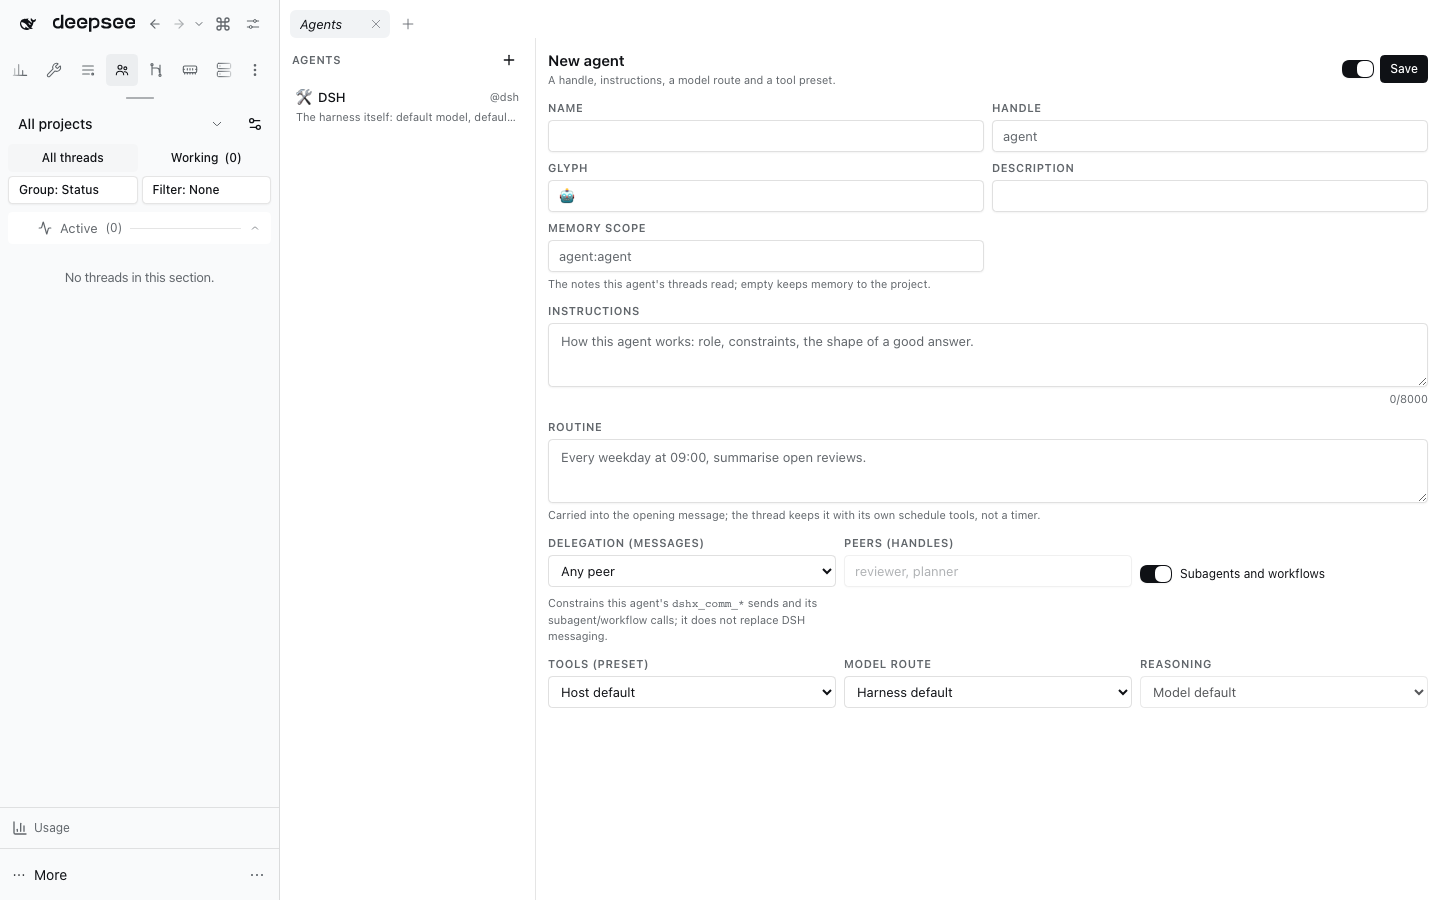
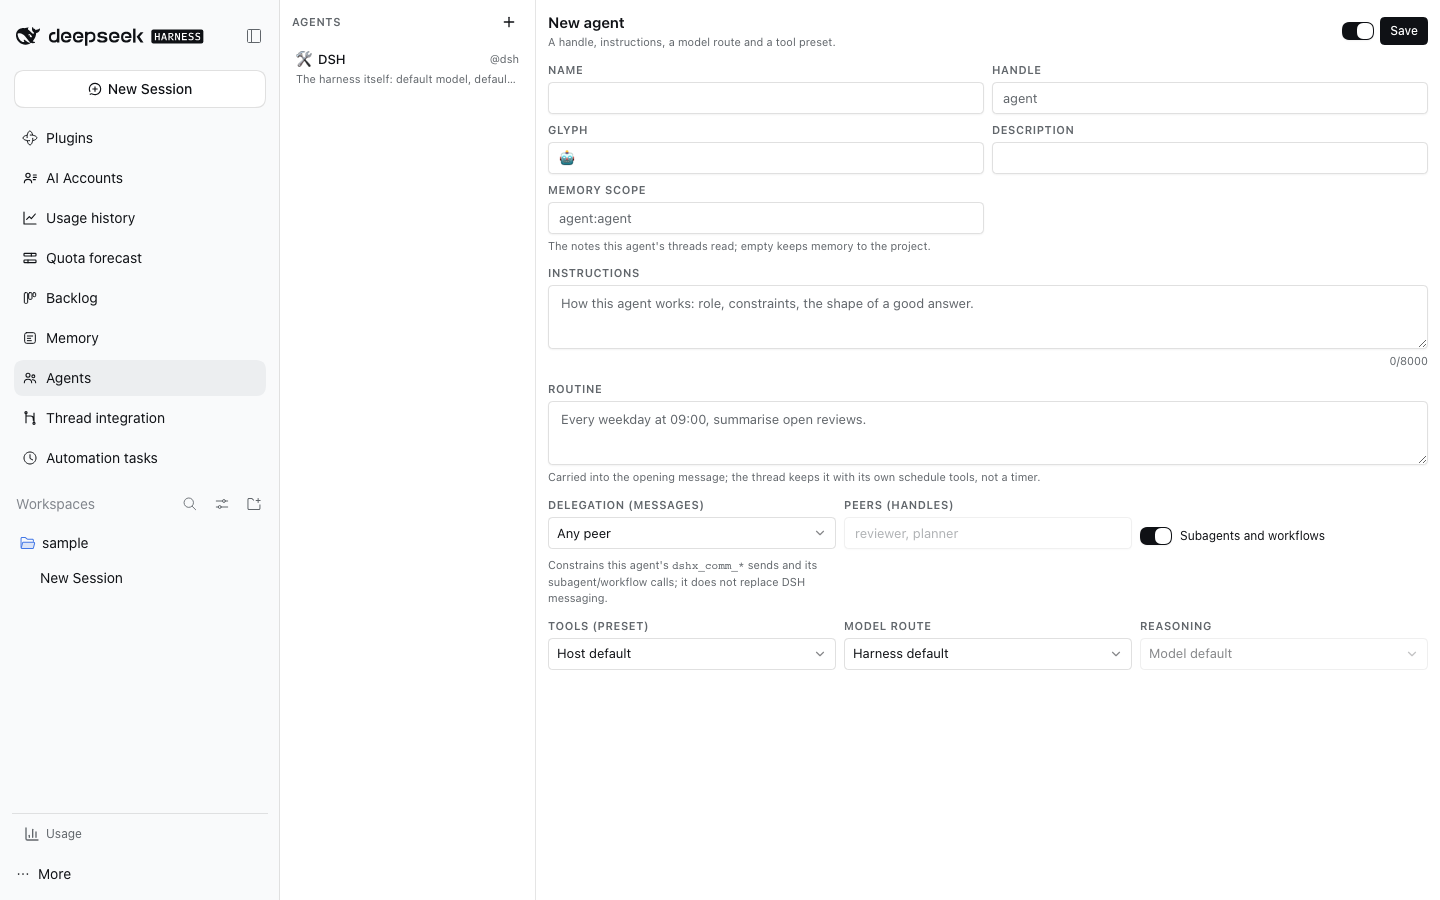
feat(agents): pick agent settings and the start workspace with the combobox
The agent form chose its delegation, tool preset, model route, reasoning and
start workspace through native selects; the workspace target had no accessible
name and a long route list could not be searched. Those fields now use the
shared combobox with the same values, patches and disabled states, and the
target carries a Thread workspace label.

The agents journey picks the listed-peers delegation through the combobox and
the registry screenshot is recaptured from a scratch DSH.

diff --git a/plugins/@dshfiles/agents/src/agents-panel.tsx b/plugins/@dshfiles/agents/src/agents-panel.tsx
@@ -1,6 +1,7 @@
 import type { WorkspaceId } from '@deepseek-ai/dsh-workspace/types'
 import { useApi } from '@dshfiles/dshx/client'
 import { Button } from '@dshfiles/plugin-ui/components/ui/button'
+import { Combobox, type ComboboxOption } from '@dshfiles/plugin-ui/components/ui/combobox'
 import { Input } from '@dshfiles/plugin-ui/components/ui/input'
 import { Switch } from '@dshfiles/plugin-ui/components/ui/switch'
 import { Textarea } from '@dshfiles/plugin-ui/components/ui/textarea'
@@ -41,8 +42,6 @@ export interface AgentsPanelProps {
 
 type Outcome = { readonly ok: true } | { readonly ok: false; readonly reason: string }
 
-const fieldClass =
-  'dshx:h-8 dshx:w-full dshx:rounded-md dshx:border dshx:border-input dshx:bg-background dshx:px-2 dshx:text-[13px] dshx:text-foreground dshx:outline-none dshx:focus-visible:ring-2 dshx:focus-visible:ring-ring/50'
 const labelClass = 'dshx:text-[11px] dshx:font-semibold dshx:uppercase dshx:tracking-wider dshx:text-muted-foreground'
 
 const draftOf = (agent: Agent | null): AgentDraft => ({
@@ -155,6 +154,32 @@ export const AgentsPanel = (props: AgentsPanelProps): JSX.Element => {
   const patch = (next: Partial<AgentDraft>): void => setDraft(currentDraft => ({ ...currentDraft, ...next }))
   const routeKey = draft.route === null ? '' : `${draft.route.provider}/${draft.route.model}`
   const routeOption = catalog.data?.options.find(option => option.key === routeKey)
+  const delegationOptions: readonly ComboboxOption[] = [
+    { value: 'any', label: 'Any peer' },
+    { value: 'listed', label: 'Listed peers only' },
+    { value: 'none', label: 'No messaging' },
+  ]
+  const presetOptions: readonly ComboboxOption[] = [
+    { value: '', label: 'Host default' },
+    ...(presets.data ?? []).map(preset => ({ value: preset.id, label: preset.name ?? preset.id, disabled: preset.broken !== undefined })),
+  ]
+  const routeOptions: readonly ComboboxOption[] = [
+    { value: '', label: 'Harness default' },
+    ...(catalog.data?.options ?? []).map(option => ({
+      value: option.key,
+      label: `${option.providerName} · ${option.modelName}`,
+      keywords: [option.provider, option.model],
+      group: option.providerName,
+    })),
+  ]
+  const effortOptions: readonly ComboboxOption[] = [
+    { value: '', label: 'Model default' },
+    ...(routeOption?.efforts ?? []).map(effort => ({ value: effort, label: effort })),
+  ]
+  const targetOptions: readonly ComboboxOption[] = [
+    { value: 'default', label: 'Host default workspace' },
+    ...projects.map(project => ({ value: `project:${project.id}`, label: project.title })),
+  ]
 
   return (
     <main className="dshx-root dshx:@container dshx:flex dshx:h-full dshx:min-h-0 dshx:bg-background dshx:text-foreground">
@@ -298,23 +323,21 @@ export const AgentsPanel = (props: AgentsPanelProps): JSX.Element => {
         <div className="dshx:grid dshx:grid-cols-3 dshx:gap-2 dshx:@max-pane-narrow:grid-cols-1">
           <label className="dshx:flex dshx:flex-col dshx:gap-1">
             <span className={labelClass}>Delegation (messages)</span>
-            <select
-              className={fieldClass}
-              value={draft.delegation.messaging}
-              onChange={event =>
+            <Combobox
+              label="Delegation (messages)"
+              matchTriggerWidth
+              onValueChange={value =>
                 patch({
                   delegation: {
-                    messaging: event.currentTarget.value === 'none' ? 'none' : event.currentTarget.value === 'listed' ? 'listed' : 'any',
+                    messaging: value === 'none' ? 'none' : value === 'listed' ? 'listed' : 'any',
                     handles: draft.delegation.handles,
                     subagents: draft.delegation.subagents,
                   },
                 })
               }
-            >
-              <option value="any">Any peer</option>
-              <option value="listed">Listed peers only</option>
-              <option value="none">No messaging</option>
-            </select>
+              options={delegationOptions}
+              value={draft.delegation.messaging}
+            />
           </label>
           <label className="dshx:flex dshx:flex-col dshx:gap-1">
             <span className={labelClass}>Peers (handles)</span>
@@ -352,26 +375,23 @@ export const AgentsPanel = (props: AgentsPanelProps): JSX.Element => {
         <div className="dshx:grid dshx:grid-cols-3 dshx:gap-2 dshx:@max-pane-narrow:grid-cols-1">
           <label className="dshx:flex dshx:flex-col dshx:gap-1">
             <span className={labelClass}>Tools (preset)</span>
-            <select
-              className={fieldClass}
+            <Combobox
+              label="Tools (preset)"
+              matchTriggerWidth
+              onValueChange={value => patch({ preset: value === '' ? null : value })}
+              options={presetOptions}
+              searchAbove={0}
+              searchPlaceholder="Search presets…"
               value={draft.preset ?? ''}
-              onChange={event => patch({ preset: event.currentTarget.value === '' ? null : event.currentTarget.value })}
-            >
-              <option value="">Host default</option>
-              {(presets.data ?? []).map(preset => (
-                <option key={preset.id} value={preset.id} disabled={preset.broken !== undefined}>
-                  {preset.name ?? preset.id}
-                </option>
-              ))}
-            </select>
+            />
           </label>
           <label className="dshx:flex dshx:flex-col dshx:gap-1">
             <span className={labelClass}>Model route</span>
-            <select
-              className={fieldClass}
-              value={routeKey}
-              onChange={event => {
-                const option = catalog.data?.options.find(candidate => candidate.key === event.currentTarget.value)
+            <Combobox
+              label="Model route"
+              matchTriggerWidth
+              onValueChange={value => {
+                const option = catalog.data?.options.find(candidate => candidate.key === value)
                 if (option === undefined) {
                   patch({ route: null })
                   return
@@ -380,39 +400,31 @@ export const AgentsPanel = (props: AgentsPanelProps): JSX.Element => {
                 if (option.defaultEffort !== undefined) route.reasoningEffort = option.defaultEffort
                 patch({ route })
               }}
-            >
-              <option value="">Harness default</option>
-              {(catalog.data?.options ?? []).map(option => (
-                <option key={option.key} value={option.key}>
-                  {option.providerName} · {option.modelName}
-                </option>
-              ))}
-            </select>
+              options={routeOptions}
+              searchAbove={0}
+              searchPlaceholder="Search models…"
+              value={routeKey}
+            />
           </label>
           <label className="dshx:flex dshx:flex-col dshx:gap-1">
             <span className={labelClass}>Reasoning</span>
-            <select
-              className={fieldClass}
-              value={draft.route?.reasoningEffort ?? ''}
+            <Combobox
               disabled={routeOption === undefined}
-              onChange={event =>
+              label="Reasoning"
+              matchTriggerWidth
+              onValueChange={value =>
                 patch({
                   route:
                     draft.route === null
                       ? null
-                      : event.currentTarget.value === ''
+                      : value === ''
                         ? { provider: draft.route.provider, model: draft.route.model }
-                        : { provider: draft.route.provider, model: draft.route.model, reasoningEffort: event.currentTarget.value },
+                        : { provider: draft.route.provider, model: draft.route.model, reasoningEffort: value },
                 })
               }
-            >
-              <option value="">Model default</option>
-              {(routeOption?.efforts ?? []).map(effort => (
-                <option key={effort} value={effort}>
-                  {effort}
-                </option>
-              ))}
-            </select>
+              options={effortOptions}
+              value={draft.route?.reasoningEffort ?? ''}
+            />
           </label>
         </div>
 
@@ -444,14 +456,16 @@ export const AgentsPanel = (props: AgentsPanelProps): JSX.Element => {
               onChange={event => setPrompt(event.currentTarget.value)}
             />
             <div className="dshx:flex dshx:items-center dshx:gap-1.5">
-              <select className={cn(fieldClass, 'dshx:flex-1')} value={target} onChange={event => setTarget(event.currentTarget.value)}>
-                <option value="default">Host default workspace</option>
-                {projects.map(project => (
-                  <option key={project.id} value={`project:${project.id}`}>
-                    {project.title}
-                  </option>
-                ))}
-              </select>
+              <Combobox
+                label="Thread workspace"
+                matchTriggerWidth
+                onValueChange={setTarget}
+                options={targetOptions}
+                searchAbove={0}
+                searchPlaceholder="Search workspaces…"
+                triggerClassName="dshx:flex-1"
+                value={target}
+              />
               <Button size="sm" onClick={() => dispatch.mutate()} disabled={dispatch.isPending}>
                 <SendIcon />
                 Start

diff --git a/tooling/dshx/e2e/support/plugin-journeys/agents.steps.ts b/tooling/dshx/e2e/support/plugin-journeys/agents.steps.ts
@@ -23,9 +23,11 @@ Then('the agent thread {string} opens with its instructions for {string}', async
 
 Then('the start thread dialog offers the agent {string}', async ({ page }: { page: Page }, handle: string) => {
   await peek(page).getByRole('button', { name: 'Start thread', exact: true }).click()
-  const agents = page.getByLabel('Thread agent', { exact: true })
+  const agents = page.getByRole('combobox', { name: 'Thread agent', exact: true })
   await expect(agents).toBeVisible()
-  await expect(agents.locator('option', { hasText: handle })).toHaveCount(1)
+  await agents.click()
+  await expect(page.getByRole('option', { name: new RegExp(handle, 'u') })).toHaveCount(1)
+  await page.keyboard.press('Escape')
   await page.getByRole('button', { name: 'Cancel', exact: true }).click()
   await finishJourneyAssertions(page)
 })
@@ -60,7 +62,8 @@ Then('the agent {string} is saved with instructions {string}', async ({ page }: 
 })
 
 Then('the agent {string} may only message {string}', async ({ page }: { page: Page }, _name: string, peer: string) => {
-  await page.getByRole('combobox', { name: 'Delegation (messages)', exact: true }).selectOption({ label: 'Listed peers only' })
+  await page.getByRole('combobox', { name: 'Delegation (messages)', exact: true }).click()
+  await page.getByRole('option', { name: 'Listed peers only', exact: true }).click()
   await page.getByRole('textbox', { name: 'Peers (handles)', exact: true }).fill(peer)
   await page.getByRole('button', { name: 'Save', exact: true }).click()
   await expect(page.getByText('Saved.', { exact: true })).toBeVisible()
@@ -73,7 +76,7 @@ Then('the Agents panel lists {string} with those instructions', async ({ page }:
     await row.click()
     await expect(page.getByRole('textbox', { name: 'Name', exact: true })).toHaveValue(name)
     await expect(instructionsField(page)).toHaveValue('Prefer small findings.')
-    await expect(page.getByRole('combobox', { name: 'Delegation (messages)', exact: true })).toHaveValue('listed')
+    await expect(page.getByRole('combobox', { name: 'Delegation (messages)', exact: true })).toContainText('Listed peers only')
     await expect(page.getByRole('textbox', { name: 'Peers (handles)', exact: true })).toHaveValue('dsh')
   })
   await finishJourneyAssertions(page)
